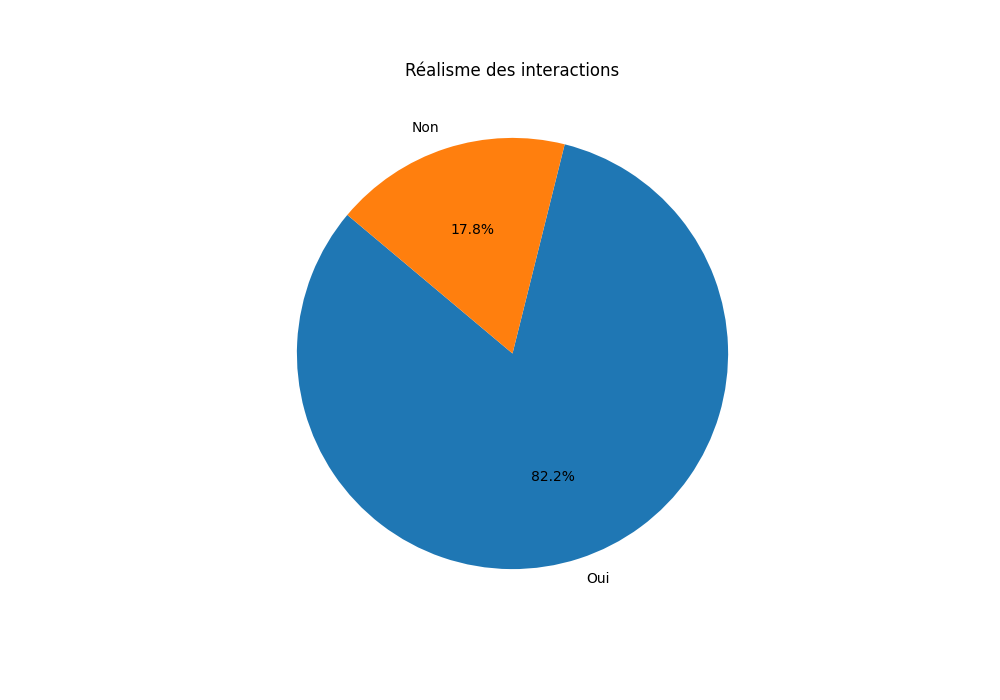
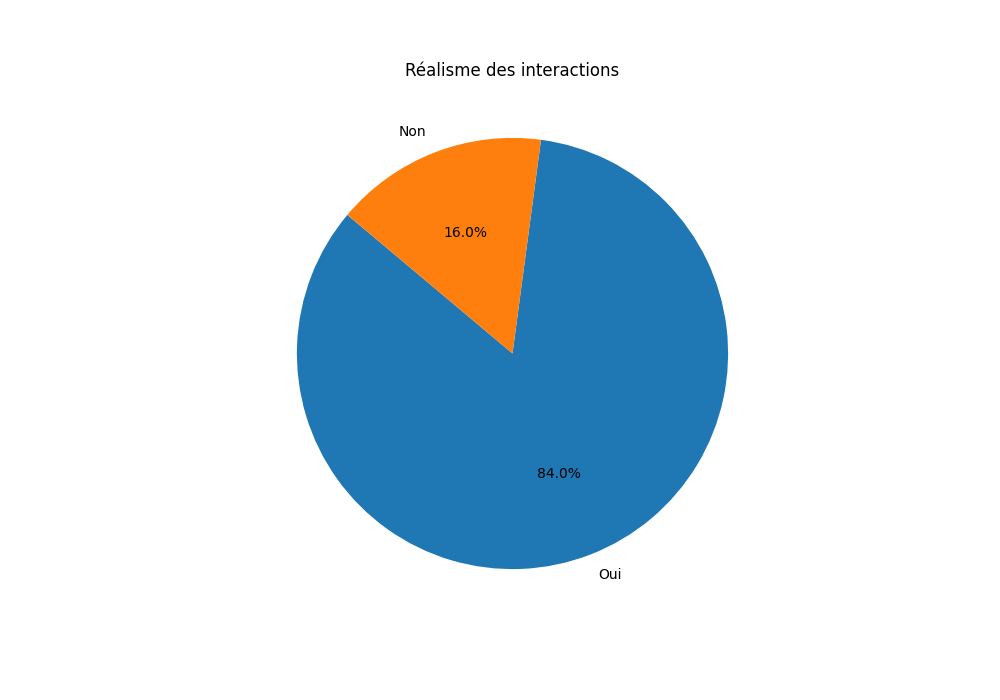
nouvelle évaluation + maj rapport statistique évaluation

diff --git a/sondages/conversations/output/rapport_statistique.md b/sondages/conversations/output/rapport_statistique.md
@@ -1,7 +1,7 @@
 # Rapport Statistique
 
-## Nombre total de conversations : 9
-## Nombre total d'échanges : 45
+## Nombre total de conversations : 10
+## Nombre total d'échanges : 50
 
 ## Graphiques
 
@@ -20,109 +20,109 @@
 - **Écart-type**: 0.0
 - **Min**: 5.0
 - **Max**: 5.0
-- **Nombre de valeurs**: 9
+- **Nombre de valeurs**: 10
 ### Note pertinence réponse
-- **Moyenne**: 4.222222222222222
+- **Moyenne**: 4.3
 - **Médiane**: 5.0
-- **Écart-type**: 0.97182531580755
+- **Écart-type**: 0.9486832980505138
 - **Min**: 3
 - **Max**: 5
-- **Nombre de valeurs**: 9
+- **Nombre de valeurs**: 10
 ### Réalisme interaction
 - **Oui**: 100.0%
 
 ## Statistiques pour Échange 2
 ### Note pertinence question
-- **Moyenne**: 4.666666666666667
+- **Moyenne**: 4.7
 - **Médiane**: 5.0
-- **Écart-type**: 0.5
+- **Écart-type**: 0.48304589153964794
 - **Min**: 4.0
 - **Max**: 5.0
-- **Nombre de valeurs**: 9
+- **Nombre de valeurs**: 10
 ### Note pertinence réponse
-- **Moyenne**: 4.222222222222222
+- **Moyenne**: 4.1
 - **Médiane**: 4.0
-- **Écart-type**: 0.8333333333333334
+- **Écart-type**: 0.8755950357709131
 - **Min**: 3
 - **Max**: 5
-- **Nombre de valeurs**: 9
+- **Nombre de valeurs**: 10
 ### Réalisme interaction
-- **Oui**: 88.89%
-- **Non**: 11.11%
+- **Oui**: 90.0%
+- **Non**: 10.0%
 
 ## Statistiques pour Échange 3
 ### Note pertinence question
-- **Moyenne**: 4.666666666666667
+- **Moyenne**: 4.7
 - **Médiane**: 5.0
-- **Écart-type**: 0.5
+- **Écart-type**: 0.48304589153964794
 - **Min**: 4.0
 - **Max**: 5.0
-- **Nombre de valeurs**: 9
+- **Nombre de valeurs**: 10
 ### Note pertinence réponse
-- **Moyenne**: 3.6666666666666665
-- **Médiane**: 3.0
-- **Écart-type**: 1.118033988749895
+- **Moyenne**: 3.8
+- **Médiane**: 3.5
+- **Écart-type**: 1.1352924243950933
 - **Min**: 2
 - **Max**: 5
-- **Nombre de valeurs**: 9
+- **Nombre de valeurs**: 10
 ### Réalisme interaction
-- **Oui**: 88.89%
-- **Non**: 11.11%
+- **Oui**: 90.0%
+- **Non**: 10.0%
 
 ## Statistiques pour Échange 4
 ### Note pertinence question
-- **Moyenne**: 4.25
-- **Médiane**: 4.5
-- **Écart-type**: 1.0350983390135313
+- **Moyenne**: 4.333333333333333
+- **Médiane**: 5.0
+- **Écart-type**: 0.9999999999999999
 - **Min**: 2.0
 - **Max**: 5.0
-- **Nombre de valeurs**: 8
+- **Nombre de valeurs**: 9
 ### Note pertinence réponse
-- **Moyenne**: 4.111111111111111
+- **Moyenne**: 4.2
 - **Médiane**: 4.0
-- **Écart-type**: 0.7817359599705715
+- **Écart-type**: 0.7888106377466155
 - **Min**: 3
 - **Max**: 5
-- **Nombre de valeurs**: 9
+- **Nombre de valeurs**: 10
 ### Réalisme interaction
-- **Oui**: 66.67%
-- **Non**: 33.33%
+- **Oui**: 70.0%
+- **Non**: 30.0%
 
 ## Statistiques pour Échange 5
 ### Note pertinence question
-- **Moyenne**: 4.444444444444445
+- **Moyenne**: 4.5
 - **Médiane**: 5.0
-- **Écart-type**: 0.7264831572567788
+- **Écart-type**: 0.7071067811865476
 - **Min**: 3.0
 - **Max**: 5.0
-- **Nombre de valeurs**: 9
+- **Nombre de valeurs**: 10
 ### Note pertinence réponse
-- **Moyenne**: 3.6666666666666665
-- **Médiane**: 4.0
-- **Écart-type**: 1.3228756555322954
+- **Moyenne**: 3.5
+- **Médiane**: 3.5
+- **Écart-type**: 1.35400640077266
 - **Min**: 1
 - **Max**: 5
-- **Nombre de valeurs**: 9
+- **Nombre de valeurs**: 10
 ### Réalisme interaction
-- **Oui**: 66.67%
-- **Non**: 33.33%
+- **Oui**: 70.0%
+- **Non**: 30.0%
 
 ## Statistiques pour Global
 ### Note pertinence question
-- **Moyenne**: 4.613636363636363
+- **Moyenne**: 4.653061224489796
 - **Médiane**: 5.0
-- **Écart-type**: 0.6547113367438264
+- **Écart-type**: 0.6308400618805605
 - **Min**: 2.0
 - **Max**: 5.0
-- **Nombre de valeurs**: 44
+- **Nombre de valeurs**: 49
 ### Note pertinence réponse
-- **Moyenne**: 3.977777777777778
+- **Moyenne**: 3.98
 - **Médiane**: 4.0
-- **Écart-type**: 1.0110500592068734
+- **Écart-type**: 1.0398194505758767
 - **Min**: 1
 - **Max**: 5
-- **Nombre de valeurs**: 45
+- **Nombre de valeurs**: 50
 ### Réalisme interaction
-- **Oui**: 82.22%
-- **Non**: 17.78%
+- **Oui**: 84.0%
+- **Non**: 16.0%
 
